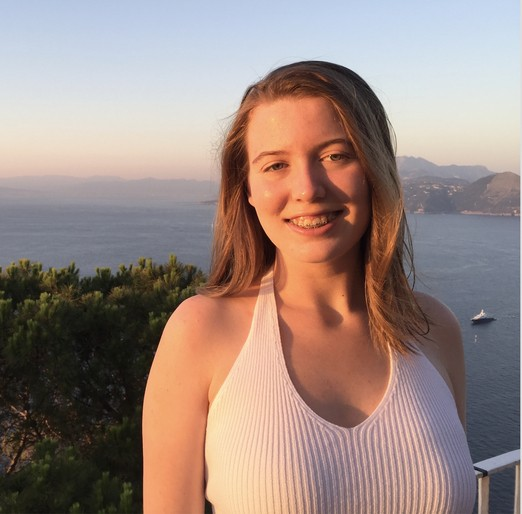
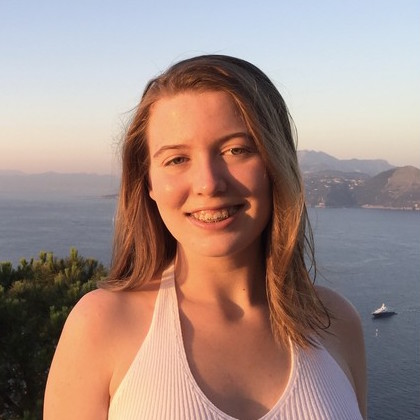
dasfd

diff --git a/hacktrin/index.html b/hacktrin/index.html
@@ -339,44 +339,44 @@
             </div>
 
              <div class="col-lg-4 col-sm-6 text-center mb-4">
-              <img class="rounded-circle img-fluid d-block mx-auto" src="img/team/leah_new_image.jpg" alt="">
+              <img class="rounded-circle img-fluid d-block mx-auto" src="img/team/leah.jpg" alt="">
               <h3>Leah Teichholtz '20
                 <br>
                 <small>Head of Advertising and Social Media</small>
               </h3>
             </div>
 
-             <div class="col-lg-3 col-sm-6 text-center mb-4">
+             <div class="col-lg-2.4 col-sm-6 text-center mb-4">
                <img class="rounded-circle img-fluid d-block mx-auto" src="img/team/malini.jpg" alt="">
-               <h3>Malini Kundamal '20
+               <h3><small>Malini Kundamal '20</small>
                  <br>
                  <small> Head of Web Design </small>
                </h3>
              </div>
 
-             <div class="col-lg-3 col-sm-6 text-center mb-4">
-                  <img class="rounded-circle img-fluid d-block mx-auto" src="img/team/dave.jpg" alt="">
-                  <h3>David Bershadsky '20
+             <div class="col-lg-2.4 col-sm-6 text-center mb-4">
+                  <img class="rounded-circle img-fluid d-block mx-auto" src="img/team/david.jpg" alt="">
+                  <h3><small> David Bershadsky '20 </small>
                     <br>
                     <small>Head of Hardware</small>
                   </h3>
                 </div>
 
-           <div class="col-lg-3 col-sm-6 text-center mb-4">
+           <div class="col-lg-2.4 col-sm-6 text-center mb-4">
              <img class="rounded-circle img-fluid d-block mx-auto" src="img/team/ramsey.jpg" alt="">
               <h3> <small>Ramsey Bader '21</small>
                 <br>
                 <small> Student Outreach</small>
               </h3>
             </div>
-            <div class="col-lg-3 col-sm-6 text-center mb-4">
+            <div class="col-lg-2.4 col-sm-6 text-center mb-4">
               <img class="rounded-circle img-fluid d-block mx-auto" src="img/team/frances.jpg" alt="">
               <h3><small>Frances Cohen '21</small>
                 <br>
                 <small>Student Outreach</small>
               </h3>
             </div>
-             <div class="col-lg-3 col-sm-6 text-center mb-4">
+             <div class="col-lg-2.4 col-sm-6 text-center mb-4">
                <img class="rounded-circle img-fluid d-block mx-auto" src="img/team/sam.jpg" alt="">
               <h3><small>Samuel Davidson '21</small>
                 <br>
@@ -385,21 +385,21 @@
             </div>
 
 
-            <div class="col-lg-3 col-sm-6 text-center mb-4">
-              <img class="rounded-circle img-fluid d-block mx-auto" src="img/team/Sanya.jpg" alt="">
+            <div class="col-lg-2.4 col-sm-6 text-center mb-4">
+              <img class="rounded-circle img-fluid d-block mx-auto" src="img/team/sanya.jpg" alt="">
               <h3><small>Sanya Arora '21</small>
                 <br>
                 <small>Mentor, Judges, and Swag Outreach</small>
               </h3>
             </div>
-            <div class="col-lg-3 col-sm-6 text-center mb-4">
+            <div class="col-lg-2.4 col-sm-6 text-center mb-4">
               <img class="rounded-circle img-fluid d-block mx-auto" src="img/team/coco_headshot.jpg" alt="">
               <h3><small>Coco Carragher '21</small>
                 <br>
                 <small>Mentor, Judges, and Swag Outreach</small>
               </h3>
             </div>
-            <div class="col-lg-3 col-sm-6 text-center mb-4">
+            <div class="col-lg-2.4 col-sm-6 text-center mb-4">
               <img class="rounded-circle img-fluid d-block mx-auto" src="img/team/cassie.jpg" alt="">
               <h3><small>Cassie Elish '21</small>
                 <br>
@@ -407,7 +407,7 @@
               </h3>
             </div>
 
-        <div class="col-lg-3 col-sm-6 text-center mb-4">
+        <div class="col-lg-2.4 col-sm-6 text-center mb-4">
               <img class="rounded-circle img-fluid d-block mx-auto" src="img/team/peter.jpg" alt="">
               <h3><small>Peter Madoff'21</small>
                 <br>
@@ -415,7 +415,7 @@
               </h3>
             </div>
 
-             <div class="col-lg-3 col-sm-6 text-center mb-4">
+             <div class="col-lg-2.4 col-sm-6 text-center mb-4">
                <img class="rounded-circle img-fluid d-block mx-auto" src="img/team/rohan.jpg" alt="">
               <h3><small>Rohan Mehta '21</small>
                 <br>
